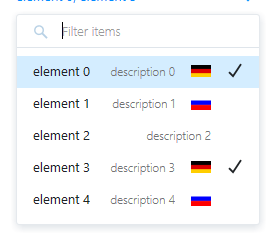
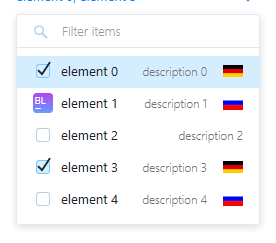
RG-1905 checkboxed multiselect

diff --git a/components/list/list__item.js b/components/list/list__item.js
@@ -1,10 +1,10 @@
 import React, {PureComponent} from 'react';
 import PropTypes from 'prop-types';
 import classNames from 'classnames';
-import checkmarkIcon from '@jetbrains/icons/checkmark.svg';
 
 import dataTests from '../global/data-tests';
 import Avatar, {Size as AvatarSize} from '../avatar/avatar';
+import Checkbox from '../checkbox/checkbox';
 import Icon from '../icon';
 
 import styles from './list.css';
@@ -51,10 +51,13 @@ export default class ListItem extends PureComponent {
     rightGlyph: PropTypes.oneOfType([PropTypes.string, PropTypes.func]),
     compact: PropTypes.bool,
     onClick: PropTypes.func,
+    onCheckboxChange: PropTypes.func,
     onMouseOver: PropTypes.func,
     onMouseUp: PropTypes.func,
     'data-test': PropTypes.string
   };
+
+  stopBubbling = e => e.stopPropagation();
 
   render() {
     /* eslint-disable no-unused-vars */
@@ -76,6 +79,7 @@ export default class ListItem extends PureComponent {
       tabIndex,
       compact,
       onClick,
+      onCheckboxChange,
       onMouseOver,
       onMouseUp,
       rightNodes,
@@ -83,6 +87,10 @@ export default class ListItem extends PureComponent {
       ...restProps
     } = this.props;
     /* eslint-enable */
+
+    const checkable = checkbox !== undefined;
+    const hasLeftNodes = leftNodes || glyph || avatar;
+    const showCheckbox = checkable && (checkbox || !hasLeftNodes || (hover && !disabled));
 
     const classes = classNames(styles.item, className, {
       [styles.action]: !disabled,
@@ -119,23 +127,37 @@ export default class ListItem extends PureComponent {
         data-test={dataTest}
         style={style}
       >
-        <div className={styles.top}>
-          <div className={styles.left}>
-            {glyph && (
-              <Icon
-                className={styles.glyph}
-                glyph={glyph}
-                size={this.props.iconSize}
+        <div className={styles.top} onMouseOut={this.stopBubbling}>
+          {!showCheckbox && (
+            <div className={styles.left}>
+              {leftNodes}
+              {glyph && (
+                <Icon
+                  className={styles.glyph}
+                  glyph={glyph}
+                  size={this.props.iconSize}
+                />
+              )}
+              {avatar && (
+                <Avatar
+                  className={styles.avatar}
+                  url={avatar}
+                  size={AvatarSize.Size20}
+                />
+              )}
+            </div>
+          )}
+          {showCheckbox && (
+            <div
+              onClick={this.stopBubbling}
+              className={classNames(styles.left, styles.checkboxContainer)}
+            >
+              <Checkbox
+                checked={checkbox}
+                onChange={onCheckboxChange}
               />
-            )}
-            {avatar && (
-              <Avatar
-                className={styles.avatar}
-                url={avatar}
-                size={AvatarSize.Size20}
-              />
-            )}
-          </div>
+            </div>
+          )}
 
           <span
             className={styles.label}
@@ -165,15 +187,6 @@ export default class ListItem extends PureComponent {
               />
             )}
             {rightNodes}
-            {checkbox !== undefined && (
-              <Icon
-                glyph={checkmarkIcon}
-                data-test="ring-list-item-checkmark"
-                className={classNames(styles.checkbox, {
-                  [styles.hidden]: !checkbox
-                })}
-              />
-            )}
           </div>
         </div>
 

diff --git a/components/select/select.examples.html b/components/select/select.examples.html
@@ -477,11 +477,13 @@
   <file type="js">
     import React from 'react';
     import {render} from 'react-dom';
+    import hubConfig from '@ring-ui/docs/components/hub-config';
     import Select from '@jetbrains/ring-ui/components/select/select';
 
[2 lines of base64/hex data omitted]
     const icons = [deFlag, ruFlag, undefined];
+    const avatarUrl = `${hubConfig.serverUri}/api/rest/avatar/default?username=blue`;
 
     const elementsNum = 5;
     const dataset = [];
@@ -490,7 +492,8 @@
         'label': 'element ' + i,
         'key': i,
         description: 'description ' + i,
-        icon: icons[i % 3]
+        icon: icons[i % 3],
+        avatar: i % 2 ? avatarUrl : null
       });
     }
 

diff --git a/components/select/select.js b/components/select/select.js
@@ -763,6 +763,10 @@ export default class Select extends Component {
         this.props.onChange(selected, event);
       });
     } else {
+      const checkboxClicked = event.originalEvent.target.matches('input[type=checkbox]');
+      if (!checkboxClicked) {
+        this._hidePopup(isSelectItemEvent);
+      }
       if (selected.key == null) {
         throw new Error('Multiple selection requires each item to have the "key" property');
       }
@@ -789,7 +793,7 @@ export default class Select extends Component {
           selectedIndex: this._getSelectedIndex(selected, this.props.data)
         };
 
-      }, this._redrawPopup);
+      }, checkboxClicked ? this._redrawPopup : null);
 
     }
   };

diff --git a/components/list/list.css b/components/list/list.css
@@ -213,10 +213,6 @@
   top: 0;
 }
 
-.hidden {
-  visibility: hidden;
-}
-
 .rightGlyph {
   composes: glyph;
 
@@ -226,12 +222,14 @@
   margin-left: calc(unit * 2);
 }
 
-.checkbox {
-  composes: rightGlyph;
+.checkboxContainer {
+  position: relative;
+  top: -2px;
+  left: 3px;
 
-  width: auto;
-
-  color: var(--ring-text-color);
+  width: 20px;
+  height: 20px;
+  margin-right: unit;
 }
 
 .title {

diff --git a/components/list/list.js b/components/list/list.js
@@ -537,6 +537,7 @@ export default class List extends Component {
       } else {
         itemProps.onClick = selectHandler;
       }
+      itemProps.onCheckboxChange = selectHandler;
 
       if (itemProps.compact == null) {
         itemProps.compact = this.props.compact;
